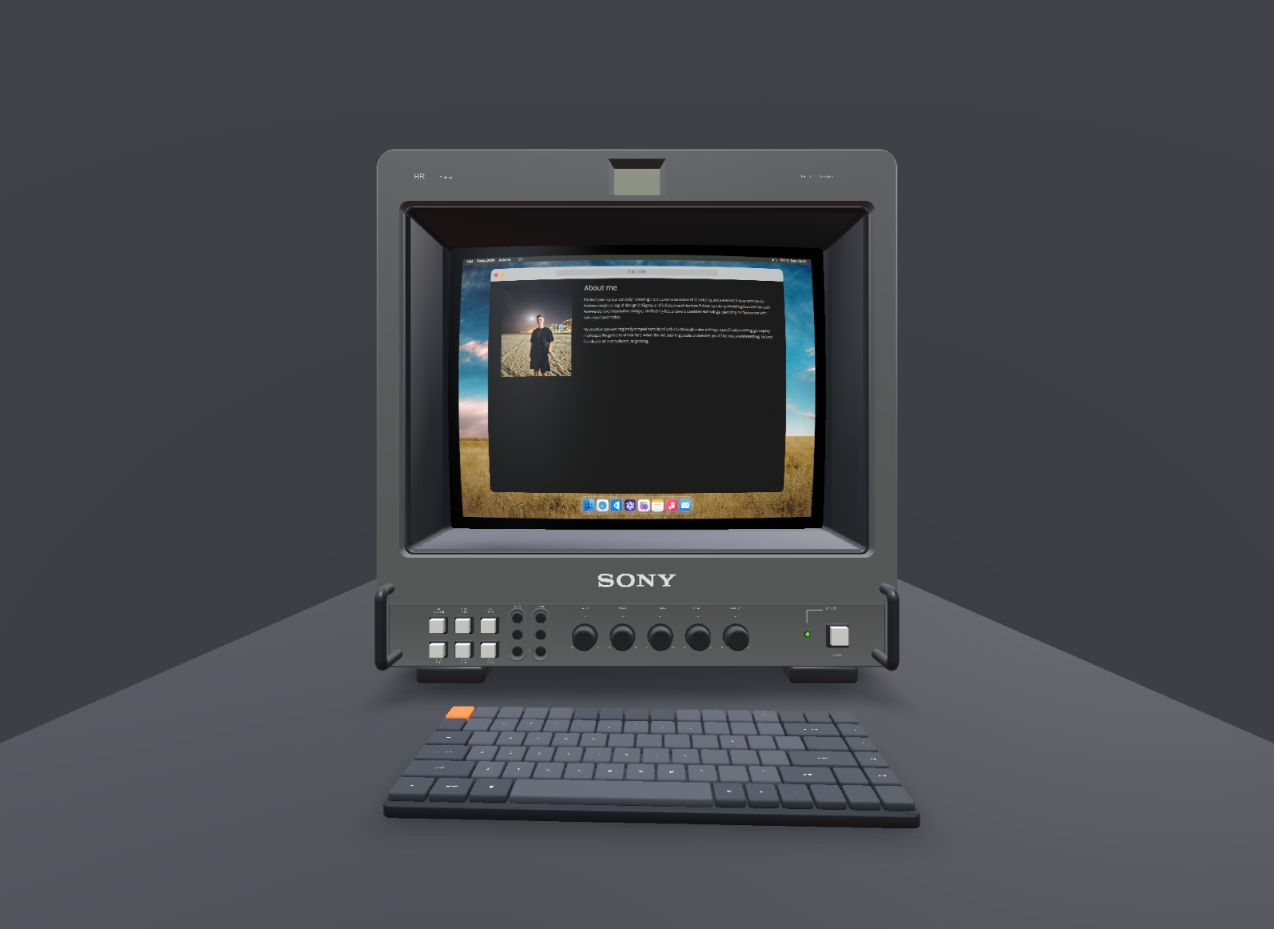
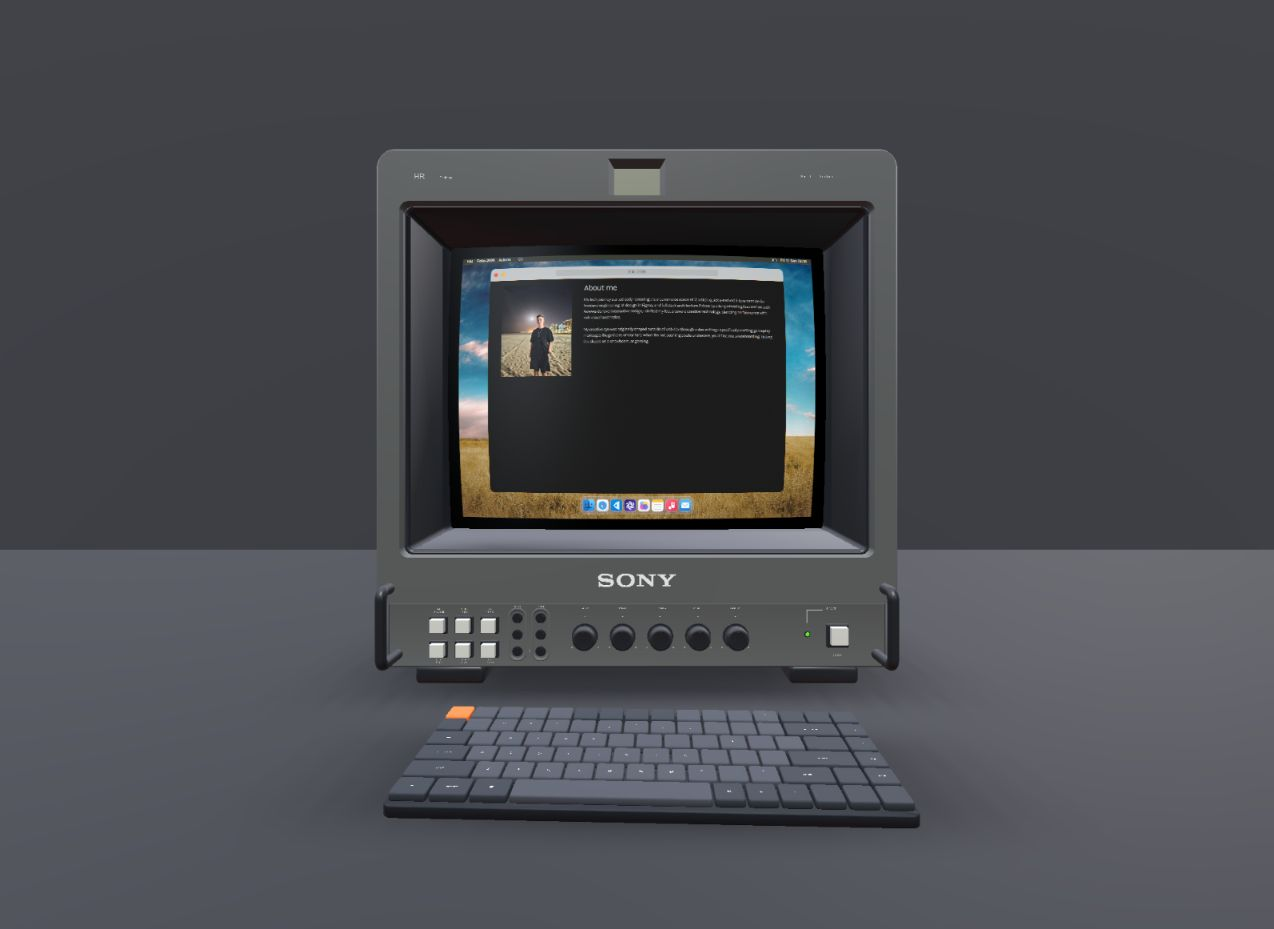
✨ Widen workstation desk to fill reveal framing

Changed region(s): [[0.7041, 0.5931, 1.0, 0.8116], [0.0, 0.5931, 0.3061, 0.8116]]

diff --git a/src/components/DebugPanel.tsx b/src/components/DebugPanel.tsx
@@ -270,7 +270,7 @@ const WORKSTATION_SCHEMA = {
     keyboardRotation: { value: D.workstation.keyboardRotation, step: 0.5 },
     keyboardScale: { value: D.workstation.keyboardScale, min: 0.5, max: 1.5, step: 0.01 },
     deskPosition: { value: D.workstation.deskPosition, step: 0.001 },
-    deskScale: { value: D.workstation.deskScale, min: 0.5, max: 2, step: 0.01 },
+    deskScale: { value: D.workstation.deskScale, min: 0.5, max: 6, step: 0.01 },
 };
 
 /**

diff --git a/src/config/constants.ts b/src/config/constants.ts
@@ -96,7 +96,7 @@ export const CONFIG = {
         KEYBOARD_ROTATION: { x: 0, y: -2, z: 0 },
         KEYBOARD_SCALE: 1,
         DESK_POSITION: { x: 0, y: 0, z: -0.28 },
-        DESK_SCALE: { x: 1, y: 1, z: 1.4 },
+        DESK_SCALE: { x: 5.5, y: 1, z: 1.4 },
         WALL_SIZE: { x: 6, y: 4, z: 0.12 },
         WALL_CENTER_Y: 0.8,
         WALL_COLOR: "#35383d",

diff --git a/assets/keyboard/README.md b/assets/keyboard/README.md
@@ -50,7 +50,7 @@ The atlas generator defaults to Windows Arial; set `KEYBOARD_FONT` to a sans-ser
 
 `Phase2Workstation.tsx` lives alongside the CRT in the existing animated surface group. Both use `getCRTReferenceFrame` to derive scale from `CRT_Screen` (352 mm wide), preserve the original screen alignment, and find the contact plane from `CRT_Stand`. The complete CRT's loose bounding box is deliberately not used: its badge contains unrelated outlying bounds, whereas the stand is the authoritative physical support.
 
-The desk's top is at the CRT feet's measured Y=-0.280866 m. Its 950 × 900 × 28 mm source asset is scaled to 1.26 m deep in the scene and centered at Z=-0.28 m. The keyboard is at X=8 mm, Z=170 mm with a -2° yaw. Both assets meet the contact plane exactly. Conservative bounds give **40.86 mm clearance** between keyboard and CRT, **421.17 mm behind the CRT**, and **115.66 mm in front of the keyboard** before the desk edge. A matte charcoal wall meets the rear edge at Z=-0.91 m and follows desk position/depth changes.
+The desk's top is at the CRT feet's measured Y=-0.280866 m. Its 950 × 900 × 28 mm source asset is scaled to 5.225 m wide and 1.26 m deep in the scene and centered at Z=-0.28 m. The width keeps its side edges outside the desktop framing. The keyboard is at X=8 mm, Z=170 mm with a -2° yaw. Both assets meet the contact plane exactly. Conservative bounds give **40.86 mm clearance** between keyboard and CRT, **421.17 mm behind the CRT**, and **115.66 mm in front of the keyboard** before the desk edge. A matte charcoal wall meets the rear edge at Z=-0.91 m and follows desk position/depth changes.
 
 Defaults live in `CONFIG.phase2`; `/debug` exposes a separate Workstation folder for keyboard position/rotation/scale and desk position/scale. Positions are native asset meters, rotations are degrees, scales are multipliers. Keyboard Y is relative to the desk top; desk Y offsets the CRT's support plane. Moving the desk vertically or tilting the keyboard can intentionally break contact and should be checked visually.
 

diff --git a/assets/workstation-desk/README.md b/assets/workstation-desk/README.md
@@ -12,6 +12,6 @@ Copy-Item assets/workstation-desk/workstation-desk.glb public/glbs/workstation-d
 
 `Phase2Workstation` anchors the top to the existing CRT stand, using the same scale as the CRT screen. Placement, keyboard clearances, debug controls, previews, and the final workstation screenshot are documented in `../keyboard/README.md`. `asset-report.json` contains the verified dimensions, geometry counts, and byte size.
 
-The scene stretches the tabletop to 1.26 m deep and moves its center to Z=-0.28 m, preserving the original front edge while extending the rear to Z=-0.91 m. A matte charcoal wall replaces the photographic backdrop. Its front face follows the desk's rear edge, so changing the desk position or depth keeps them connected. Wall size, height, color, and roughness live in `CONFIG.phase2`; the wall uses one box mesh and one material, with no texture or pointer interception.
+The scene stretches the tabletop to 5.225 m wide and 1.26 m deep, keeping its sides outside the desktop framing even at 844 × 390. Its center is Z=-0.28 m, preserving the original front edge while extending the rear to Z=-0.91 m. A matte charcoal wall replaces the photographic backdrop. Its front face follows the desk's rear edge, so changing the desk position or depth keeps them connected. Wall size, height, color, and roughness live in `CONFIG.phase2`; the wall uses one box mesh and one material, with no texture or pointer interception.
 
 ![Wall and extended tabletop in the production scene](wall-preview.png)
